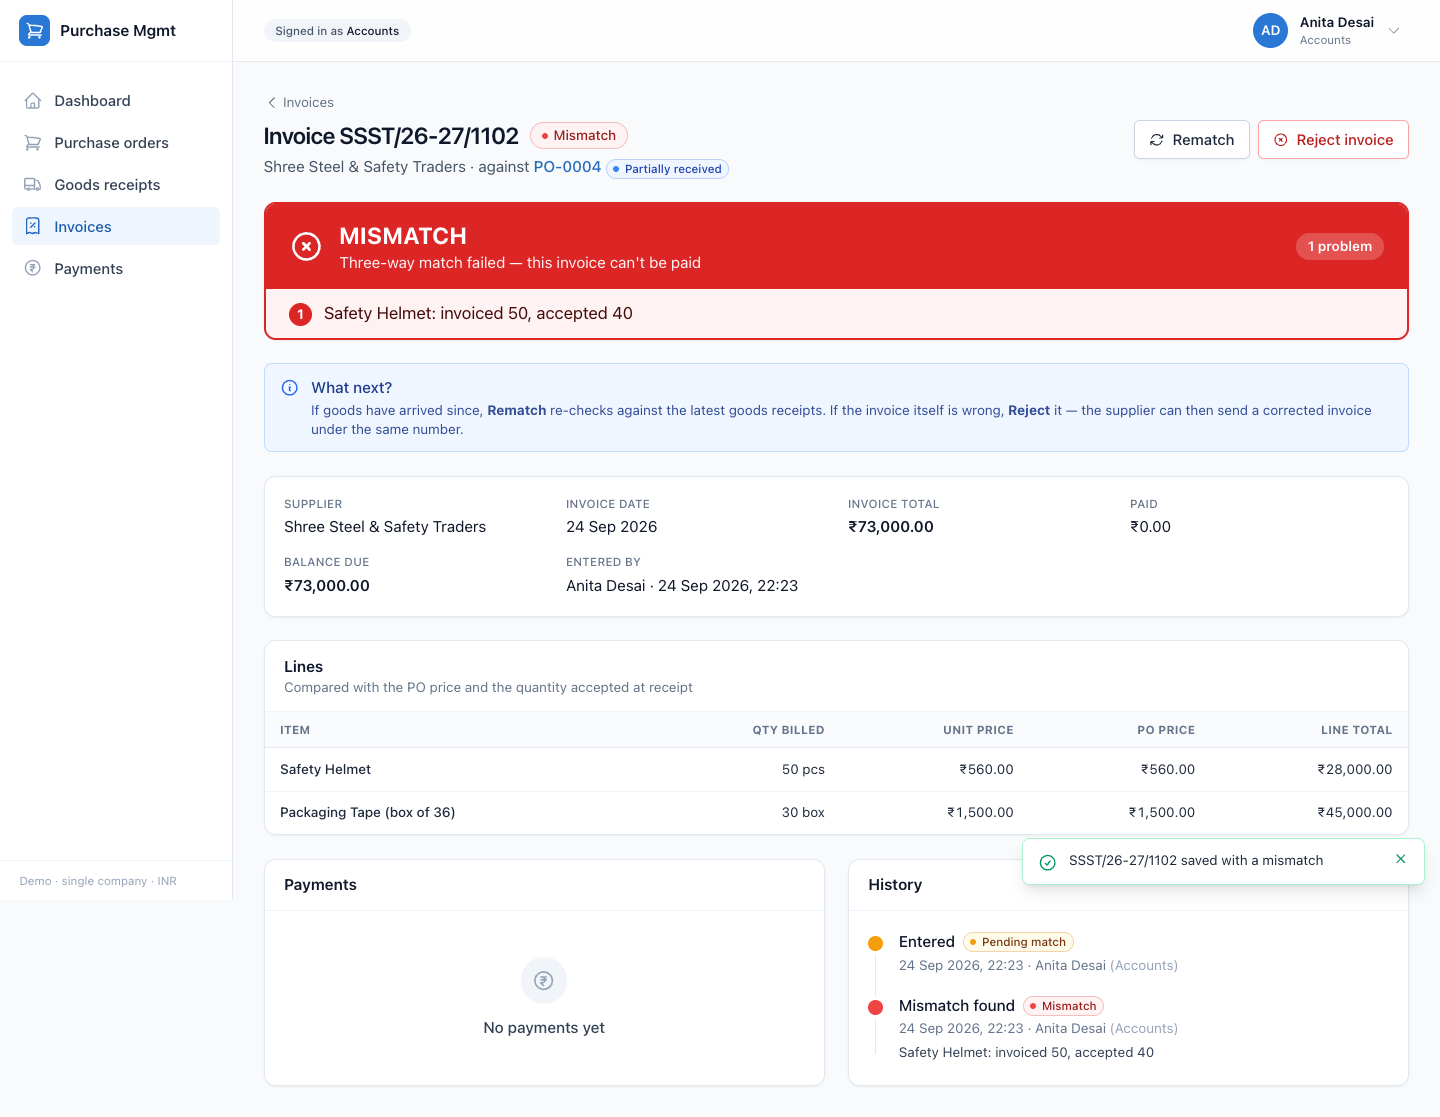
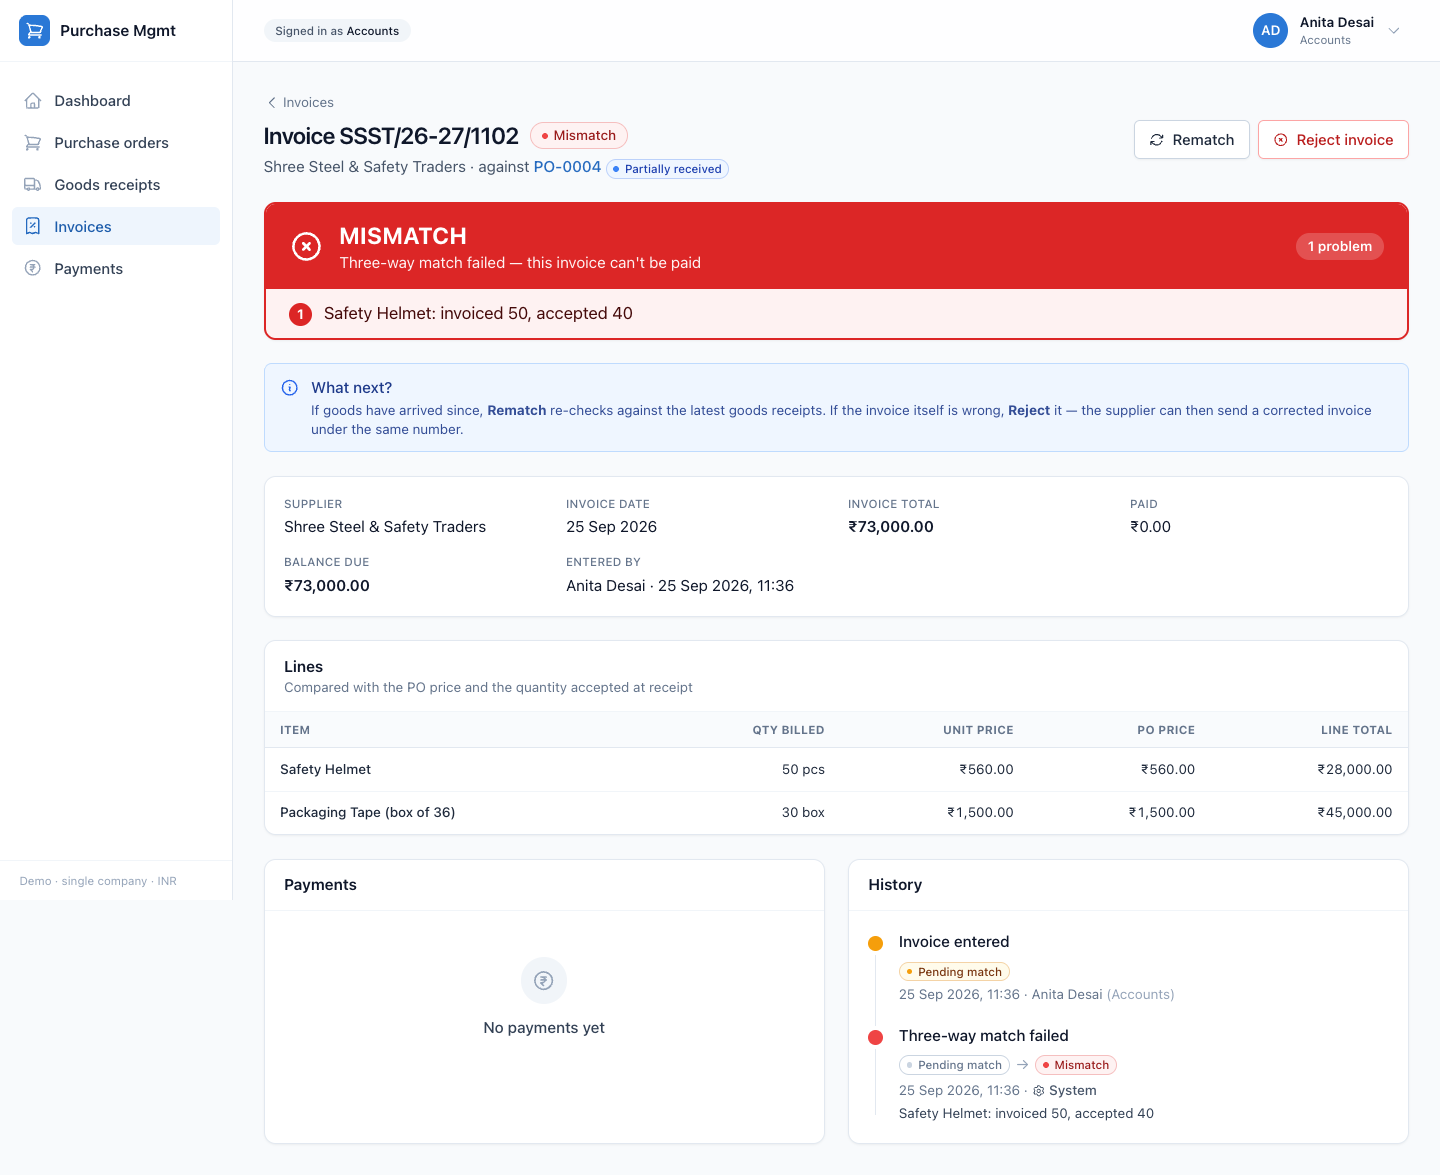
Clearer status history: from → to transitions, System actor

diff --git a/frontend/src/components/StatusTimeline.tsx b/frontend/src/components/StatusTimeline.tsx
@@ -1,11 +1,64 @@
+import { Icon } from "@/components/Icon";
 import { StatusBadge } from "@/components/StatusBadge";
 import { formatDateTime, formatINR, humanize, ROLE_LABELS } from "@/lib/format";
 import { DOT_CLASSES, toneOf } from "@/lib/status";
 import type { TimelineEntry } from "@/types/api";
 
+// Display only: each audit row is described from what it records (action, level in details,
+// from/to status). The audit data itself is unchanged.
+
 const ENTITY_LABEL = { PURCHASE_REQUEST: "PR", PURCHASE_ORDER: "PO", INVOICE: "Invoice" } as const;
 
-/** Human-readable extras from an audit row's details (reason, comment, GRN number, payment…). */
+/** Steps the system performs as a consequence of someone else's action (DESIGN.md §3). */
+const SYSTEM_STEPS: Record<string, string[]> = {
+  PURCHASE_REQUEST: ["PO_CANCELLED"],
+  PURCHASE_ORDER: ["CLOSED"],
+  INVOICE: ["MATCHED", "MISMATCHED"],
+};
+
+function approvalLevel(entry: TimelineEntry): string {
+  const level = entry.details?.level ?? (entry.from_status === "PENDING_FINANCE" ? "FINANCE" : "DEPT_HEAD");
+  return level === "FINANCE" ? "finance" : "department head";
+}
+
+function title(entry: TimelineEntry): string {
+  const { entity_type: type, action } = entry;
+  if (type === "PURCHASE_REQUEST") {
+    switch (action) {
+      case "CREATED": return "Request created";
+      case "EDITED": return "Request edited";
+      case "DELETED": return "Draft deleted";
+      case "SUBMITTED": return "Submitted for approval";
+      case "RESUBMITTED": return "Resubmitted after changes";
+      case "APPROVED": return `Approved by ${approvalLevel(entry)}`;
+      case "REJECTED": return `Rejected by ${approvalLevel(entry)}`;
+      case "PO_CREATED": return "Purchase order created";
+      case "PO_CANCELLED": return "Reopened — purchase order cancelled";
+    }
+  }
+  if (type === "PURCHASE_ORDER") {
+    switch (action) {
+      case "ISSUED": return "Purchase order issued";
+      case "GRN_RECORDED": return "Goods received";
+      case "CANCELLED": return "Purchase order cancelled";
+      case "SHORT_CLOSED": return "Short-closed";
+      case "CLOSED": return "Closed automatically";
+    }
+  }
+  if (type === "INVOICE") {
+    switch (action) {
+      case "ENTERED": return "Invoice entered";
+      case "MATCHED": return "Three-way match passed";
+      case "MISMATCHED": return "Three-way match failed";
+      case "REMATCH_REQUESTED": return "Rematch requested";
+      case "REJECTED": return "Invoice rejected";
+      case "PAYMENT_RECORDED": return entry.to_status === "PAID" ? "Payment recorded — paid in full" : "Payment recorded";
+    }
+  }
+  return humanize(action);
+}
+
+/** Human-readable extras from the row's details: comment, reason, GRN number, payment… */
 function detailText(entry: TimelineEntry): string | null {
   const d = entry.details ?? {};
   const parts: string[] = [];
@@ -15,11 +68,35 @@ function detailText(entry: TimelineEntry): string | null {
   if (typeof d.po_number === "string" && entry.action !== "ENTERED") parts.push(d.po_number);
   if (typeof d.supplier === "string") parts.push(`Supplier: ${d.supplier}`);
   if (typeof d.amount === "string") parts.push(`${formatINR(d.amount)} via ${d.mode}${d.reference_no ? ` (${d.reference_no})` : ""}`);
-  if (typeof d.balance === "string") parts.push(`balance ${formatINR(d.balance)}`);
-  if (d.auto === true) parts.push(`automatic, after ${d.trigger}`);
-  if (d.over_budget === true) parts.push("over budget — approved with warning");
+  if (typeof d.balance === "string" && d.balance !== "0.00") parts.push(`balance ${formatINR(d.balance)}`);
+  if (d.auto === true && typeof d.trigger === "string") parts.push(`after the ${d.trigger}`);
+  if (d.over_budget === true) parts.push("over budget — approved with the warning shown");
   if (Array.isArray(d.mismatches)) parts.push(...(d.mismatches as string[]));
   return parts.length ? parts.join(" · ") : null;
+}
+
+/** [from] → [to], with the old status muted. Creation shows only the new status. */
+function Transition({ from, to }: { from: string | null; to: string | null }) {
+  if (!from && !to) return null;
+  if (from && from === to) {
+    return (
+      <span className="inline-flex items-center gap-2">
+        <StatusBadge status={to!} size="sm" muted /><span className="text-xs text-slate-400">no status change</span>
+      </span>
+    );
+  }
+  return (
+    <span className="inline-flex flex-wrap items-center gap-1.5">
+      {from && (
+        <>
+          <StatusBadge status={from} size="sm" muted />
+          <span className="text-slate-400" aria-hidden="true">→</span>
+          <span className="sr-only">changed to</span>
+        </>
+      )}
+      {to ? <StatusBadge status={to} size="sm" /> : <span className="text-xs text-slate-500">removed</span>}
+    </span>
+  );
 }
 
 export function StatusTimeline({ entries, showEntity = false }: { entries: TimelineEntry[]; showEntity?: boolean }) {
@@ -27,21 +104,26 @@ export function StatusTimeline({ entries, showEntity = false }: { entries: Timel
   return (
     <ol className="relative space-y-5 before:absolute before:bottom-2 before:left-[7px] before:top-2 before:w-px before:bg-slate-200">
       {entries.map((entry, i) => {
+        const system = SYSTEM_STEPS[entry.entity_type]?.includes(entry.action) ?? false;
         const extra = detailText(entry);
         return (
-          <li key={i} className="relative flex gap-4 pl-0">
-            <span className={`relative z-10 mt-1.5 h-[15px] w-[15px] shrink-0 rounded-full ring-4 ring-white ${DOT_CLASSES[toneOf(entry.to_status)]}`} />
+          <li key={i} className="relative flex gap-4" data-testid="timeline-entry">
+            <span className={`relative z-10 mt-1.5 h-[15px] w-[15px] shrink-0 rounded-full ring-4 ring-white ${DOT_CLASSES[toneOf(entry.to_status ?? entry.from_status)]}`} />
             <div className="min-w-0 flex-1">
-              <div className="flex flex-wrap items-center gap-x-2 gap-y-1">
-                <span className="font-medium text-slate-900">{humanize(entry.action)}</span>
+              <p className="flex flex-wrap items-baseline gap-x-2">
+                <span className="font-medium text-slate-900">{title(entry)}</span>
                 {showEntity && entry.reference && (
                   <span className="text-sm text-slate-500">{ENTITY_LABEL[entry.entity_type]} {entry.reference}</span>
                 )}
-                {entry.to_status && entry.from_status !== entry.to_status && <StatusBadge status={entry.to_status} size="sm" />}
-              </div>
-              <p className="mt-0.5 text-sm text-slate-500">
-                {formatDateTime(entry.at)}
-                {entry.user && <> · {entry.user.name} <span className="text-slate-400">({ROLE_LABELS[entry.user.role]})</span></>}
+              </p>
+              <div className="mt-1"><Transition from={entry.from_status} to={entry.to_status} /></div>
+              <p className="mt-1 flex flex-wrap items-center gap-x-1 text-sm text-slate-500">
+                {formatDateTime(entry.at)} ·
+                {system ? (
+                  <span className="inline-flex items-center gap-1 font-medium text-slate-600"><Icon name="cog" className="h-3.5 w-3.5" />System</span>
+                ) : entry.user ? (
+                  <span>{entry.user.name} <span className="text-slate-400">({ROLE_LABELS[entry.user.role]})</span></span>
+                ) : <span>System</span>}
               </p>
               {extra && <p className="mt-1 text-sm text-slate-700">{extra}</p>}
             </div>

diff --git a/frontend/e2e/demo.spec.ts b/frontend/e2e/demo.spec.ts
@@ -1,7 +1,7 @@
 import { expect, test } from "@playwright/test";
 
 import { E2E_API } from "../playwright.config";
-import { blockExternalRequests, collectPageErrors, loginAs, snap, switchUser, toast } from "./helpers";
+import { blockExternalRequests, collectPageErrors, loginAs, snap, switchUser, timelineEntry, toast } from "./helpers";
 
 // The live demo, end to end in a real browser, each step by the role that owns it. The data is
 // the demo seed (fresh for every run); new documents continue its numbering (PR-0009, PO-0004…).
@@ -59,6 +59,15 @@ test("full procure-to-pay flow, offline", async ({ page }, testInfo) => {
     await page.getByRole("button", { name: "Approve" }).click();
     await page.getByRole("dialog").getByRole("button", { name: "Approve" }).click();
     await expect(badge).toHaveText("Approved");
+
+    // The history states each transition and who made it, not just the new status.
+    const byHead = timelineEntry(page, "Approved by department head");
+    await expect(byHead).toContainText(/Pending dept head.*Pending finance/);
+    await expect(byHead).toContainText("Neha Iyer");
+    const byFinance = timelineEntry(page, "Approved by finance");
+    await expect(byFinance).toContainText(/Pending finance.*Approved/);
+    await expect(byFinance).toContainText("Priya Nair");
+    await expect(timelineEntry(page, "Request created")).not.toContainText("→"); // no "from" on creation
   });
 
   await test.step("purchase compares three quotations; a dearer pick needs a reason", async () => {
@@ -120,6 +129,11 @@ test("full procure-to-pay flow, offline", async ({ page }, testInfo) => {
     await page.waitForURL(/\/invoices\/\d+$/);
     await expect(page.getByText("MISMATCH", { exact: true })).toBeVisible();
     await expect(page.getByText("Safety Helmet: invoiced 50, accepted 40")).toHaveCount(2); // banner + history
+    await expect(timelineEntry(page, "Invoice entered")).toContainText("Anita Desai");
+    const matchFailed = timelineEntry(page, "Three-way match failed");
+    await expect(matchFailed).toContainText(/Pending match.*Mismatch/);
+    await expect(matchFailed).toContainText("System"); // automatic step, not credited to Anita
+    await expect(matchFailed).not.toContainText("Anita Desai");
     await snap(page, testInfo, "06-invoice-mismatch", true);
   });
   const invoiceUrl = page.url();
@@ -150,6 +164,11 @@ test("full procure-to-pay flow, offline", async ({ page }, testInfo) => {
     await page.goto(poUrl);
     await expect(badge).toHaveText("Closed");
     await expect(page.getByText("50 / 50 pcs")).toHaveCount(2); // accepted and invoiced bars
+    const autoClose = timelineEntry(page, "Closed automatically");
+    await expect(autoClose).toContainText(/Fully received.*Closed/);
+    await expect(autoClose).toContainText("System");
+    await expect(autoClose).toContainText("after the payment");
+    await expect(autoClose).not.toContainText("Anita Desai");
     await snap(page, testInfo, "07-po-detail-closed", true);
   });
 

diff --git a/frontend/e2e/helpers.ts b/frontend/e2e/helpers.ts
@@ -39,6 +39,11 @@ export async function switchUser(page: Page, name: string) {
   await expect(page.getByRole("banner")).toContainText(name);
 }
 
+/** One entry of a status history, found by its title ("Approved by finance"). */
+export function timelineEntry(page: Page, title: string) {
+  return page.getByTestId("timeline-entry").filter({ has: page.getByText(title, { exact: true }) });
+}
+
 export function toast(page: Page) {
   return page.locator(".fixed [role='status'], .fixed [role='alert']").last();
 }
@@ -46,10 +51,11 @@ export function toast(page: Page) {
 /** With UPDATE_SCREENSHOTS=1 the README screenshots in docs/screenshots are regenerated. */
 export async function snap(page: Page, testInfo: TestInfo, name: string, fullPage = false) {
   await page.waitForTimeout(250);
-  const shot = await page.screenshot({ fullPage });
+  const style = "[aria-live] { display: none !important; }"; // keep transient toasts out of screenshots
+  const shot = await page.screenshot({ fullPage, style });
   await testInfo.attach(name, { body: shot, contentType: "image/png" });
   if (process.env.UPDATE_SCREENSHOTS) {
     const file = path.resolve(__dirname, "../../docs/screenshots", `${name}.png`);
-    await page.screenshot({ path: file, fullPage });
+    await page.screenshot({ path: file, fullPage, style });
   }
 }

diff --git a/frontend/src/components/StatusBadge.tsx b/frontend/src/components/StatusBadge.tsx
@@ -1,12 +1,19 @@
 import { humanize } from "@/lib/format";
 import { BADGE_CLASSES, DOT_CLASSES, toneOf } from "@/lib/status";
 
-export function StatusBadge({ status, size = "md" }: { status: string; size?: "sm" | "md" | "lg" }) {
+/** `muted` is for a status that no longer applies, e.g. the "from" side of a transition. */
+export function StatusBadge({ status, size = "md", muted = false }: {
+  status: string;
+  size?: "sm" | "md" | "lg";
+  muted?: boolean;
+}) {
   const tone = toneOf(status);
   const sizes = { sm: "px-2 py-0.5 text-xs", md: "px-2.5 py-1 text-xs", lg: "px-3 py-1 text-sm" }[size];
+  const colours = muted ? "bg-white text-slate-500 ring-slate-300" : BADGE_CLASSES[tone];
+  const dot = muted ? "bg-slate-300" : DOT_CLASSES[tone];
   return (
-    <span className={`inline-flex items-center gap-1.5 whitespace-nowrap rounded-full font-medium ring-1 ring-inset ${BADGE_CLASSES[tone]} ${sizes}`}>
-      <span className={`h-1.5 w-1.5 rounded-full ${DOT_CLASSES[tone]}`} aria-hidden="true" />
+    <span className={`inline-flex items-center gap-1.5 whitespace-nowrap rounded-full font-medium ring-1 ring-inset ${colours} ${sizes}`}>
+      <span className={`h-1.5 w-1.5 rounded-full ${dot}`} aria-hidden="true" />
       {humanize(status)}
     </span>
   );

diff --git a/DECISIONS.md b/DECISIONS.md
@@ -501,3 +501,15 @@ Q-numbers refer to the open questions in the first design pass (2026-09-24).
   - A 403 is shown as "No access" with the API's message, not as a retryable error.
 - **Why:** The demo has to work first time on an interviewer-facing laptop, with or without
   Wi-Fi, and recover from any mid-demo mistake in one command.
+
+### D-59 — Status history shows the transition and who made it
+- **Source:** Owner (post-Phase 6 review)
+- **Decision:** Each history entry is titled from the audit row's action and recorded level
+  ("Approved by department head", "Approved by finance", "Invoice entered", "Three-way match
+  passed"). Under the title the change is shown as `[from] → [to]`, with the old status muted;
+  a creation shows only the new status, and a step that leaves the status unchanged says so.
+  Automatic steps are credited to **System** rather than to the user whose action triggered
+  them: the three-way match result, PO auto-close, and a PR reopening when its PO is cancelled
+  (all marked "(system)" in DESIGN.md §3). Display only; the audit rows are unchanged.
+- **Why:** A single badge beside "Approved" read as the current status ("Approved [Pending
+  finance]"), which was confusing. Showing both sides makes each step self-explanatory.
